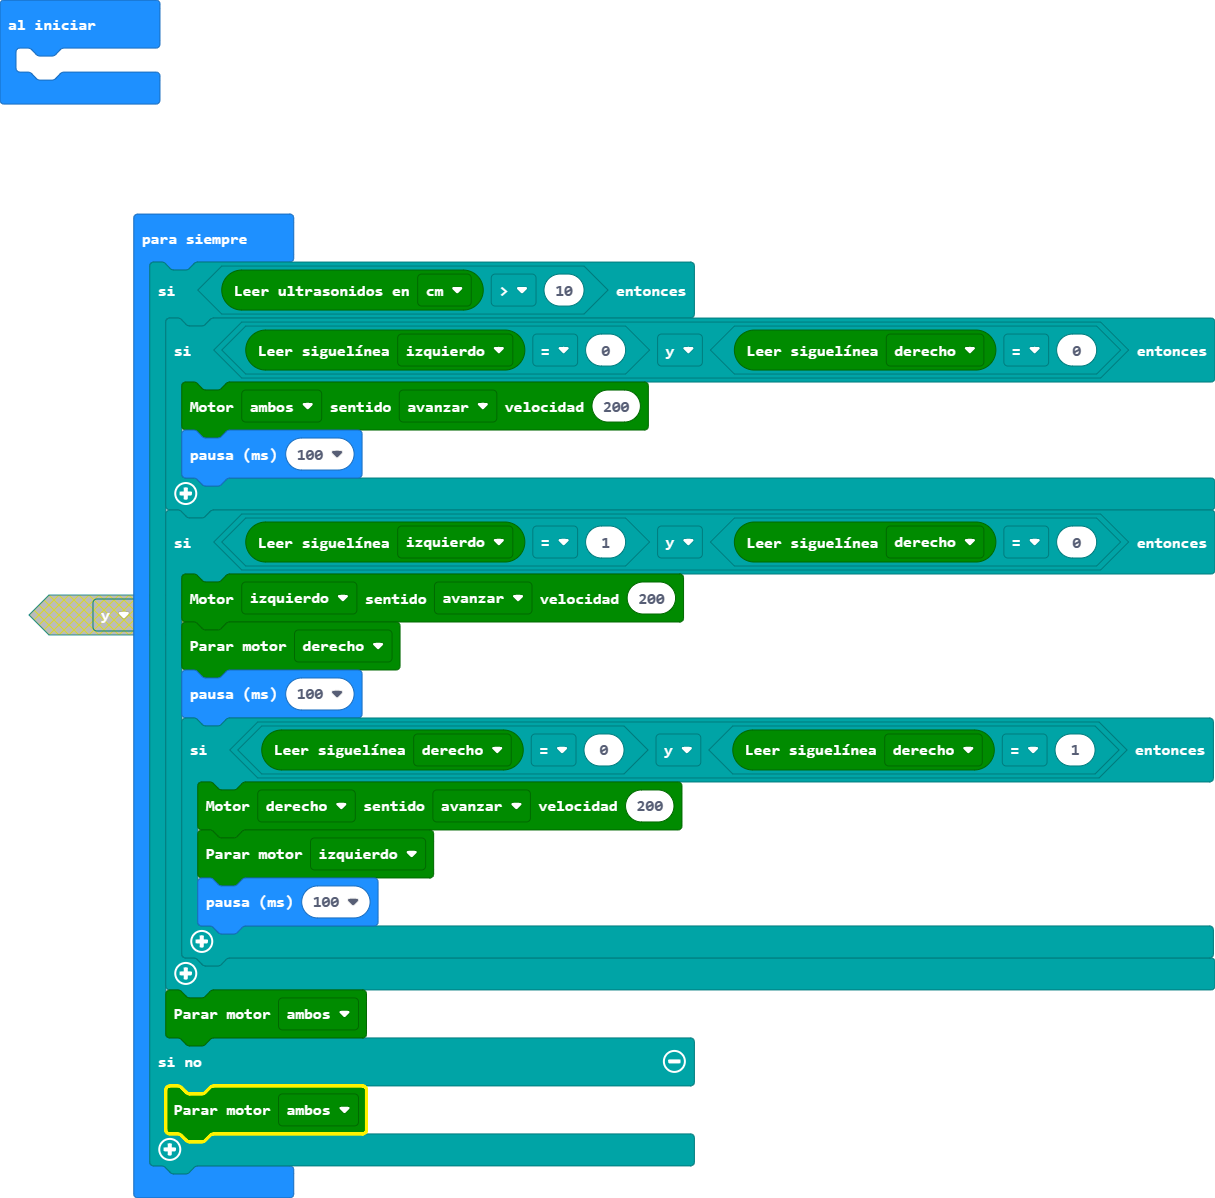
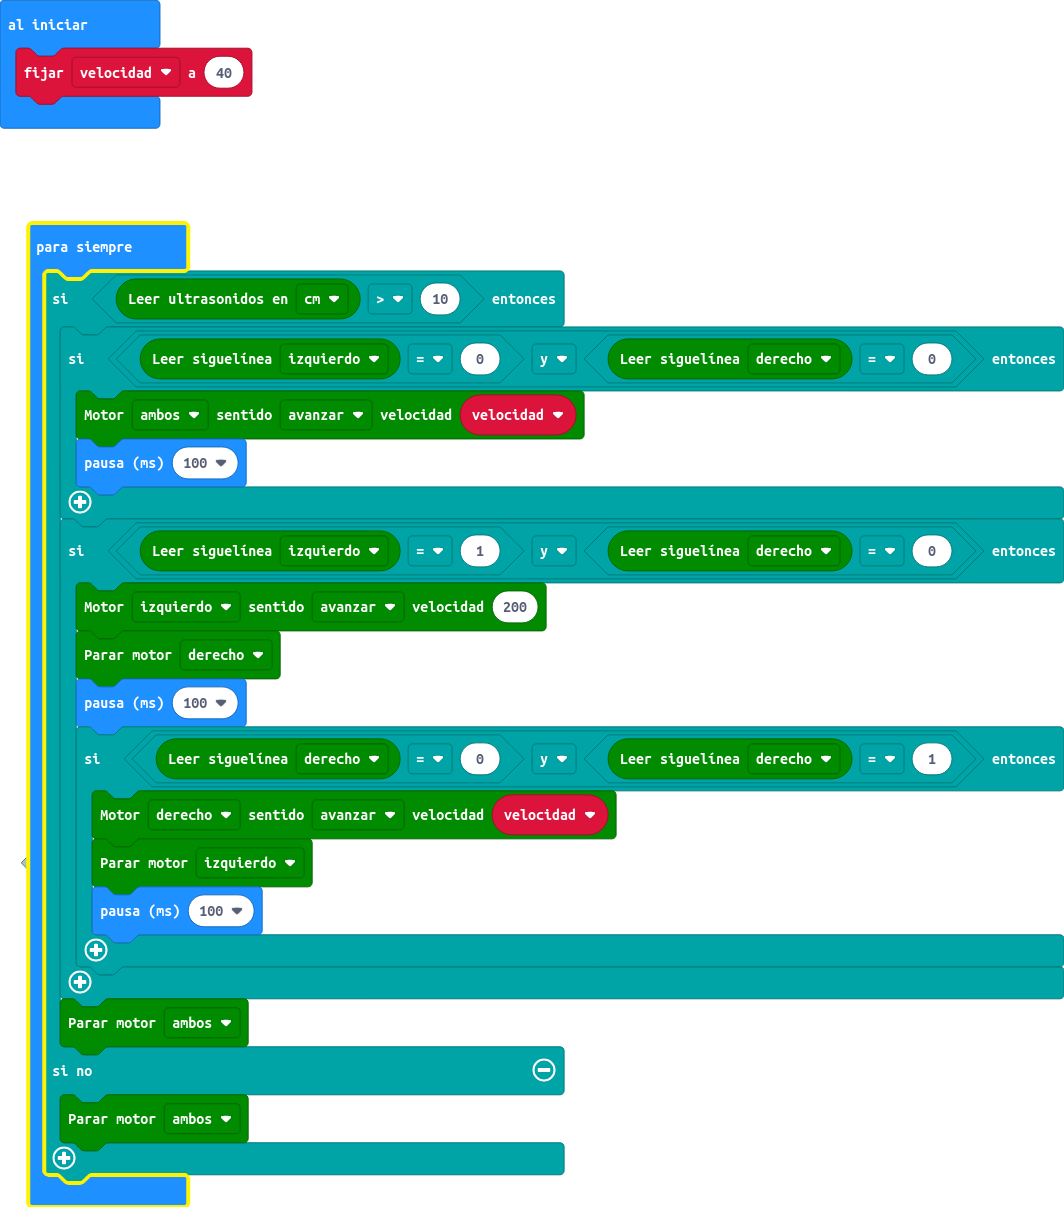
Actualizar main.blocks, main.ts

Changed region(s): [[0.0, 0.1544, 1.0, 1.0], [0.0, 0.0, 0.2481, 0.1235], [0.4962, 0.8648, 0.5893, 0.9883]]

diff --git a/main.ts b/main.ts
@@ -1,7 +1,8 @@
+let velocidad = 40
 basic.forever(function () {
     if (maqueen.Ultrasonic(PingUnit.Centimeters) > 10) {
         if (maqueen.readPatrol(maqueen.Patrol.PatrolLeft) == 0 && maqueen.readPatrol(maqueen.Patrol.PatrolRight) == 0) {
-            maqueen.motorRun(maqueen.Motors.All, maqueen.Dir.CW, 200)
+            maqueen.motorRun(maqueen.Motors.All, maqueen.Dir.CW, velocidad)
             basic.pause(100)
         }
         if (maqueen.readPatrol(maqueen.Patrol.PatrolLeft) == 1 && maqueen.readPatrol(maqueen.Patrol.PatrolRight) == 0) {
@@ -9,7 +10,7 @@ basic.forever(function () {
             maqueen.motorStop(maqueen.Motors.M2)
             basic.pause(100)
             if (maqueen.readPatrol(maqueen.Patrol.PatrolRight) == 0 && maqueen.readPatrol(maqueen.Patrol.PatrolRight) == 1) {
-                maqueen.motorRun(maqueen.Motors.M2, maqueen.Dir.CW, 200)
+                maqueen.motorRun(maqueen.Motors.M2, maqueen.Dir.CW, velocidad)
                 maqueen.motorStop(maqueen.Motors.M1)
                 basic.pause(100)
             }
